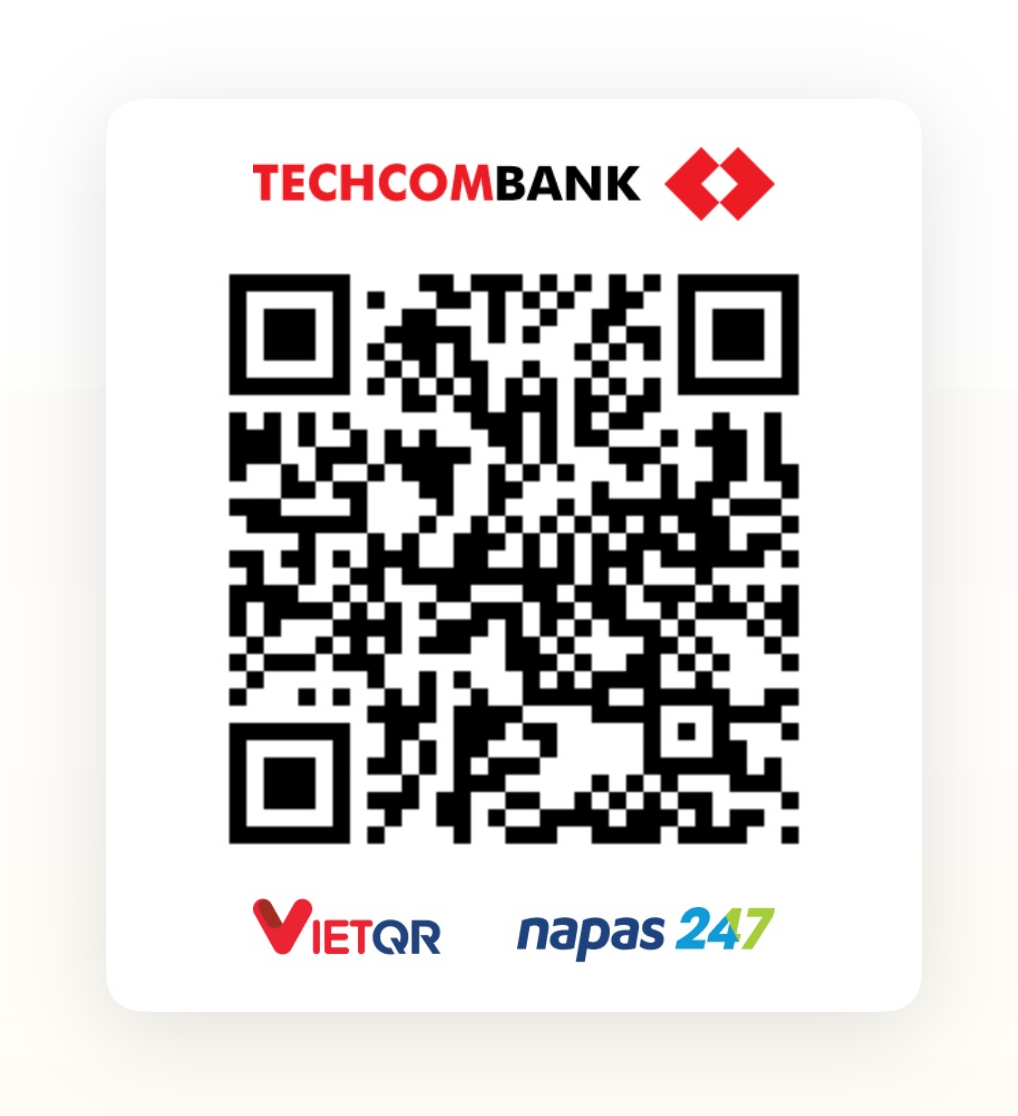
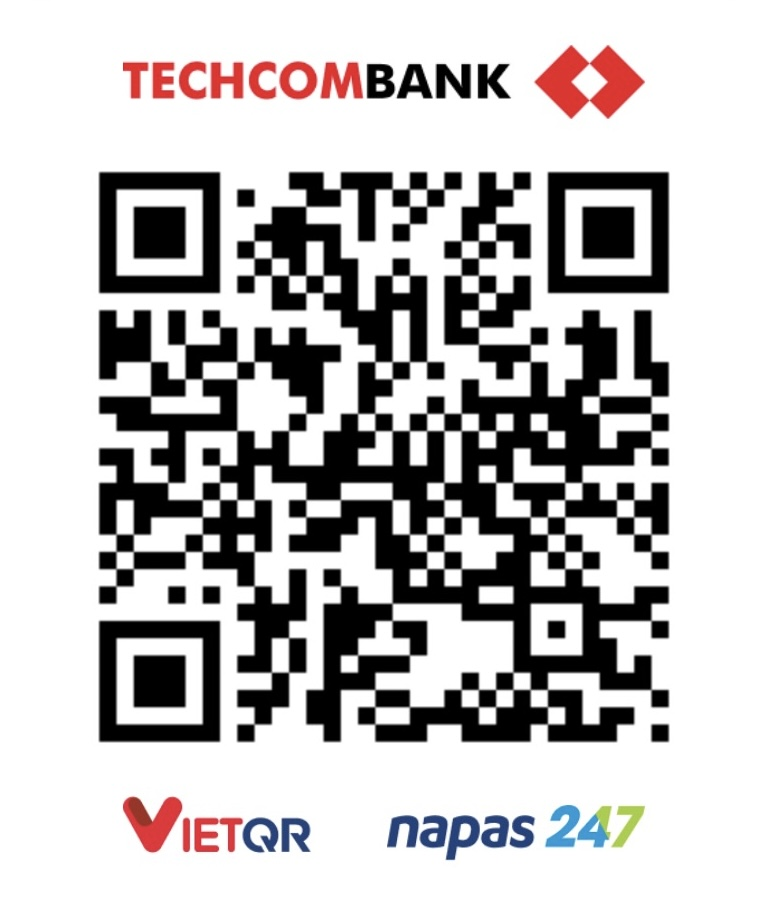
feat(wedding): update invitation content and styling
- Update bride bank from MB to VPBank, update QR codes
- Increase font sizes in envelope for better readability
- Remove avatar from envelope, simplify layout
- Add date and lunar date display to event info
- Translate timeline items to Vietnamese
- Rename venues to "Tư gia Nhà Trai/Gái"
- Update footer and RSVP wording
- Remove QR code border in monetary gift section

diff --git a/src/features/invitation/components/Envelop.tsx b/src/features/invitation/components/Envelop.tsx
@@ -1,6 +1,6 @@
 'use client';
 
-import { Avatar, Box, Typography } from '@mui/material';
+import { Box, Typography } from '@mui/material';
 import { useWeddingInvitation } from '@/features/invitation/context/WeddingInvitationContext';
 import { Guest } from '@/types/guest';
 import { BRIDE_NAME, GROOM_NAME } from '@/constants/wedding';
@@ -38,7 +38,7 @@ export default function Envelop({ guest }: { guest: Guest | null }) {
         {/* Guest greeting */}
         <Typography
           sx={{
-            fontSize: { xs: '0.85rem', sm: '0.95rem' },
+            fontSize: { xs: '1rem', sm: '1.5rem' },
             fontFamily: FONTS.serif,
             fontWeight: 500,
             letterSpacing: '0.15em',
@@ -62,37 +62,9 @@ export default function Envelop({ guest }: { guest: Guest | null }) {
         >
           Trân trọng kính mời
         </Typography>
-        <Avatar
-          sx={{
-            width: { xs: 64, sm: 80 },
-            height: { xs: 64, sm: 80 },
-            mb: 1.5,
-            bgcolor: COLORS.primary,
-            color: '#fff',
-            fontSize: { xs: '1.5rem', sm: '1.8rem' },
-            fontFamily: FONTS.display,
-            opacity: 0,
-            animation: 'fadeInDown 1s ease forwards',
-            animationDelay: '0.2s',
-            '@keyframes fadeInDown': {
-              from: {
-                opacity: 0,
-                transform: 'translateY(-16px)',
-              },
-              to: {
-                opacity: 1,
-                transform: 'translateY(0)',
-              },
-            },
-          }}
-          alt={guest?.name || 'Bạn'}
-          src='/images/wax-seal.webp'
-        >
-          {(guest?.name || 'Bạn').charAt(0).toUpperCase()}
-        </Avatar>
         <Typography
           sx={{
-            fontSize: { xs: '0.85rem', sm: '0.95rem' },
+            fontSize: { xs: '1.5rem', sm: '2.5rem' },
             fontFamily: FONTS.serif,
             fontWeight: 500,
             letterSpacing: '0.15em',
@@ -108,7 +80,7 @@ export default function Envelop({ guest }: { guest: Guest | null }) {
         </Typography>
         <Typography
           sx={{
-            fontSize: { xs: '0.85rem', sm: '0.95rem' },
+            fontSize: { xs: '1rem', sm: '1.5rem' },
             fontFamily: FONTS.serif,
             fontWeight: 500,
             letterSpacing: '0.15em',
@@ -149,7 +121,7 @@ export default function Envelop({ guest }: { guest: Guest | null }) {
         >
           <Typography
             sx={{
-              fontSize: { xs: '2.8rem', sm: '3.5rem', md: '4rem' },
+              fontSize: { xs: '3rem', sm: '4rem', md: '5rem' },
               fontFamily: FONTS.display,
               color: COLORS.primary,
               lineHeight: 1.1,
@@ -159,7 +131,7 @@ export default function Envelop({ guest }: { guest: Guest | null }) {
           </Typography>
           <Typography
             sx={{
-              fontSize: { xs: '1.8rem', sm: '2.2rem' },
+              fontSize: { xs: '2rem', sm: '2.5rem' },
               fontFamily: FONTS.display,
               color: COLORS.accent,
               lineHeight: 1,
@@ -170,7 +142,7 @@ export default function Envelop({ guest }: { guest: Guest | null }) {
           </Typography>
           <Typography
             sx={{
-              fontSize: { xs: '2.8rem', sm: '3.5rem', md: '4rem' },
+              fontSize: { xs: '3rem', sm: '4rem', md: '5rem' },
               fontFamily: FONTS.display,
               color: COLORS.primary,
               lineHeight: 1.1,
@@ -285,7 +257,7 @@ export default function Envelop({ guest }: { guest: Guest | null }) {
               bottom: '10%',
               mt: 2,
               whiteSpace: 'nowrap',
-              fontSize: { xs: '1.3rem', sm: '1.5rem' },
+              fontSize: { xs: '1.5rem', sm: '2.5rem' },
               fontFamily: FONTS.display,
               fontStyle: 'italic',
               color: COLORS.textSecondary,

diff --git a/src/features/invitation/constants/events.tsx b/src/features/invitation/constants/events.tsx
@@ -18,11 +18,11 @@ export interface WeddingEvent {
 
 // const CEREMONY_EVENT: WeddingEvent = {
 //   id: '1',
-//   title: 'Nhà Trai',
+//   title: 'Tư gia Nhà Trai',
 //   type: 'ceremony',
 //   date: '14.01.2024',
 //   time: '09:00 - 11:00',
-//   venue: 'Nhà Trai',
+//   venue: 'Tư gia Nhà Trai',
 //   address: 'Thôn Trà Bồ, xã Đoàn Đào, tỉnh Hưng Yên',
 //   embededIframe: (
 //     <iframe
@@ -41,11 +41,11 @@ export interface WeddingEvent {
 
 const GROOM_RECEPTION_EVENT: WeddingEvent = {
   id: '2',
-  title: 'Nhà Trai',
+  title: 'Tư gia Nhà Trai',
   type: 'reception',
   date: '05.04.2026',
   time: '11:00',
-  venue: 'Nhà Trai',
+  venue: 'Tư gia Nhà Trai',
   address: 'Xóm 6, Thôn Trà Bồ, xã Đoàn Đào, tỉnh Hưng Yên',
   embededIframe: (
     <iframe
@@ -64,11 +64,11 @@ const GROOM_RECEPTION_EVENT: WeddingEvent = {
 
 const BRIDE_RECEPTION_EVENT: WeddingEvent = {
   id: '3',
-  title: 'Nhà Gái',
+  title: 'Tư gia Nhà Gái',
   type: 'reception',
   date: '05.04.2026',
   time: '11:00',
-  venue: 'Nhà Gái',
+  venue: 'Tư gia Nhà Gái',
   address: 'Xóm 1, Thôn Đặng Xá, xã Tiên Hoa, tỉnh Hưng Yên',
   embededIframe: (
     <iframe

diff --git a/src/features/invitation/components/EventInfo.tsx b/src/features/invitation/components/EventInfo.tsx
@@ -136,7 +136,7 @@ export default function EventInfo({
         }}
       >
         <ScrollReveal>
-          {/* Large time */}
+          {/* Event time */}
           <Typography
             sx={{
               fontFamily: FONTS.serif,
@@ -146,6 +146,32 @@ export default function EventInfo({
             }}
           >
             {event.time}
+          </Typography>
+
+          {/* Date */}
+          <Typography
+            sx={{
+              fontFamily: FONTS.serif,
+              fontSize: { xs: '1rem', sm: '1.15rem' },
+              color: COLORS.textPrimary,
+              fontWeight: 700,
+              textTransform: 'uppercase',
+            }}
+          >
+            Chủ Nhật, ngày 05 tháng 04 năm 2026
+          </Typography>
+
+          {/* Lunar date */}
+          <Typography
+            sx={{
+              fontFamily: FONTS.serif,
+              fontSize: { xs: '0.8rem', sm: '0.9rem' },
+              fontStyle: 'italic',
+              color: COLORS.textSecondary,
+              mt: 0.5,
+            }}
+          >
+            (Tức ngày 18 tháng 02 năm Bính Ngọ)
           </Typography>
 
           <MiniCalendar />

diff --git a/src/features/invitation/components/WeddingInvitation.tsx b/src/features/invitation/components/WeddingInvitation.tsx
@@ -12,8 +12,13 @@ import GiftMessage from '@/features/invitation/components/GiftMessage';
 import InvitationHeading from '@/features/invitation/components/InvitationHeading';
 
 const PhotoGallery = dynamic(() => import('./PhotoGallery'), { ssr: false });
-const WeddingMonetaryGift = dynamic(() => import('./WeddingMonetaryGift'), { ssr: false });
-const WeddingGuestBook = dynamic(() => import('./WeddingGuestBook'), { ssr: false });
+const WeddingMonetaryGift = dynamic(() => import('./WeddingMonetaryGift'), {
+  ssr: false,
+});
+const WeddingGuestBook = dynamic(() => import('./WeddingGuestBook'), {
+  ssr: false,
+});
+
 import MusicToggle from '@/features/invitation/components/MusicToggle';
 import { Box, Fade, Grow } from '@mui/material';
 import { Guest, GuestSource } from '@/types/guest';

diff --git a/src/features/invitation/components/Timeline.tsx b/src/features/invitation/components/Timeline.tsx
@@ -10,10 +10,9 @@ interface TimelineItem {
 }
 
 const timelineItems: TimelineItem[] = [
-  { time: '04:00 PM', title: 'Wedding Ceremony' },
-  { time: '06:00 PM', title: 'Dinner' },
-  { time: '07:00 PM', title: 'Reception' },
-  { time: '11:00 PM', title: 'Cocktails' },
+  { time: '9h30', title: 'Đón khách' },
+  { time: '10h', title: 'Bữa trưa vui vẻ' },
+  { time: '15h', title: 'Lễ vu quy' },
 ];
 
 export default function Timeline() {
@@ -30,7 +29,7 @@ export default function Timeline() {
         <ScrollReveal>
           <Box sx={{ textAlign: 'center', mb: 6 }}>
             <Typography variant='h2' component='h2' sx={sectionHeadingStyle}>
-              Timeline
+              Mốc thời gian
             </Typography>
           </Box>
         </ScrollReveal>

diff --git a/src/features/invitation/components/Footer.tsx b/src/features/invitation/components/Footer.tsx
@@ -62,10 +62,10 @@ export default function Footer() {
           >
             Cảm ơn bạn đã dành tình cảm cho chúng mình.
             <br />
-            Sự hiện diện của bạn là món quà ý nghĩa nhất.
+            Chúng mình vô cùng trân quý khi được chia sẻ niềm hạnh phúc này cùng
+            bạn.
             <br />
-            Chúng mình vô cùng trân quý khi được cùng bạn chia sẻ niềm hạnh phúc
-            trong ngày.
+            Hẹn gặp bạn tại buổi lễ nhé!
           </Typography>
 
           {/* Made with Love Message */}

diff --git a/src/features/invitation/components/InvitationResponse.tsx b/src/features/invitation/components/InvitationResponse.tsx
@@ -167,9 +167,8 @@ export default function InvitationResponse({
               mb: 1,
             }}
           >
-            Hãy xác nhận sự có mặt của bạn để chúng mình
-            <br />
-            chuẩn bị đón tiếp một cách chu đáo nhất.
+            Để tụi mình có thể đón tiếp bạn một cách trọn vẹn nhất, hãy xác nhận
+            sự có mặt của bạn nhé.
             <br />
             Trân trọng!
           </Typography>

diff --git a/src/features/invitation/components/WeddingMonetaryGift.tsx b/src/features/invitation/components/WeddingMonetaryGift.tsx
@@ -119,7 +119,6 @@ export default function WeddingMonetaryGift() {
                       width: 180,
                       height: 180,
                       position: 'relative',
-                      border: `1px solid ${COLORS.borderGold}`,
                       borderRadius: 2,
                       overflow: 'hidden',
                     }}

diff --git a/src/constants/wedding.ts b/src/constants/wedding.ts
@@ -9,7 +9,7 @@ export const BANK_ACCOUNTS = [
     id: 'bride',
     title: 'Cô Dâu',
     name: BRIDE_NAME,
-    bankName: 'MB',
+    bankName: 'VPBank',
     accountNumber: '0395875238',
     accountName: 'BÙI THỊ MẾN',
     qrCode: QR_CODE_BRIDE,
